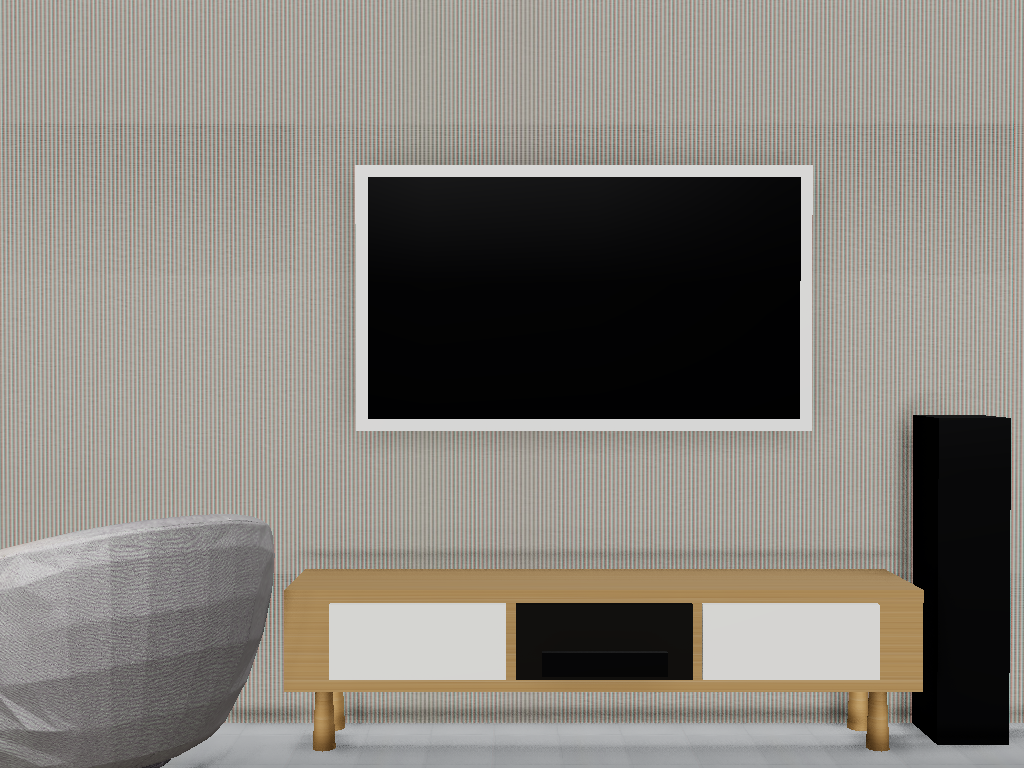
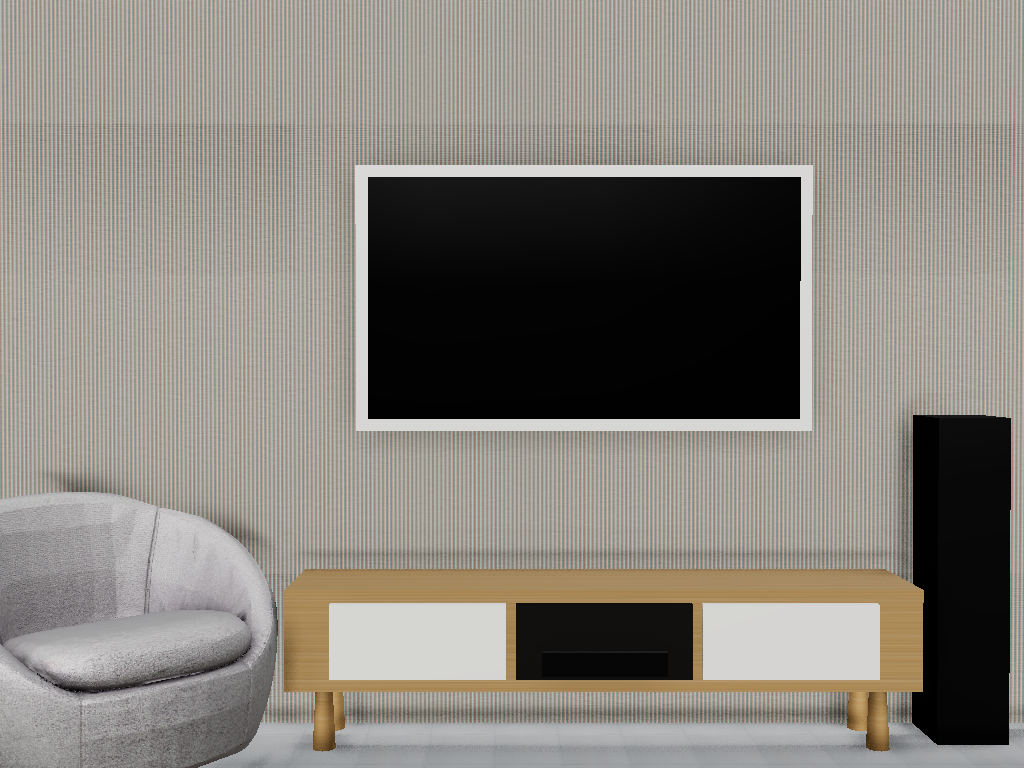
spike 3: fix imported-model orientation; case-insensitive inputs; refresh out3
The manifest yaws were copied from the authored builders' conventions, but
Meshy GLBs face +Z at yaw 0 (the photographed side), so the chair (-135)
and bookshelf/cabinet (0) all showed their backs to the room. Set to the
generated meshes' convention (chair 45 = opening SE; bookshelf and shoe
cabinet 180 = fronts into the room, backs to the south wall), verified by
re-render on all four views. items.json comment updated to record the +Z
convention.

run-spike3.mjs now matches input files case-insensitively (phone photos
arrive as .JPG; the driver previously missed all of them). out3 renders +
contact sheet regenerated with the corrected orientations, the shell
textures rebuilt from the committed surface photos, and both reference
photos embedded.

The 'objects sitting alongside the old ones' view is ?imports=side, the
C1 comparison mode -- the default (?imports=on, used by all captures)
replaces the authored primitives outright.

Claude-Session: https://claude.ai/code/session_013Ek3PM8x61n3iLosCqD66y

Changed region(s): [[0.0, 0.5938, 0.3125, 1.0]]

diff --git a/spike/out3/contact-sheet.html b/spike/out3/contact-sheet.html
@@ -1,0 +1,20 @@
+<!doctype html><html><head><meta charset="utf-8"/><title>PoC 3 — C2 contact sheet</title></head>
+<body style="background:#111;color:#eee;font-family:sans-serif;padding:24px;">
+<h1 style="font-size:20px;">PoC 3 — whole-room similarity (judge per poc3-plan.md §2)</h1>
+<p style="font-size:13px;color:#999;">C1 gate: open <code>scene2.html?imports=side</code> and orbit each generated item, including its back.
+C2 bar: the side-by-sides below — "that's my room," without caveats.</p>
+  <h2 style="font-size:16px;color:#aaa;">couch view — render vs reference</h2>
+  <div style="display:flex;flex-wrap:wrap;">
+    <div style="margin:4px;"><div style="font-size:12px;color:#999;">scene2 (imports+shell as available)</div>
+      <img src="scene2-couch.png" style="width:480px;border:1px solid #444;"/></div>
+    <div style="margin:4px;"><div style="font-size:12px;color:#999;">reference photo</div>
+      <img src="../inputs/reference/couch.JPG" style="width:480px;border:1px solid #444;"/></div>
+  </div>
+
+  <h2 style="font-size:16px;color:#aaa;">reverse view — render vs reference</h2>
+  <div style="display:flex;flex-wrap:wrap;">
+    <div style="margin:4px;"><div style="font-size:12px;color:#999;">scene2 (imports+shell as available)</div>
+      <img src="scene2-reverse.png" style="width:480px;border:1px solid #444;"/></div>
+    <div style="margin:4px;"><div style="font-size:12px;color:#999;">reference photo</div>
+      <img src="../inputs/reference/reverse.JPG" style="width:480px;border:1px solid #444;"/></div>
+  </div></body></html>